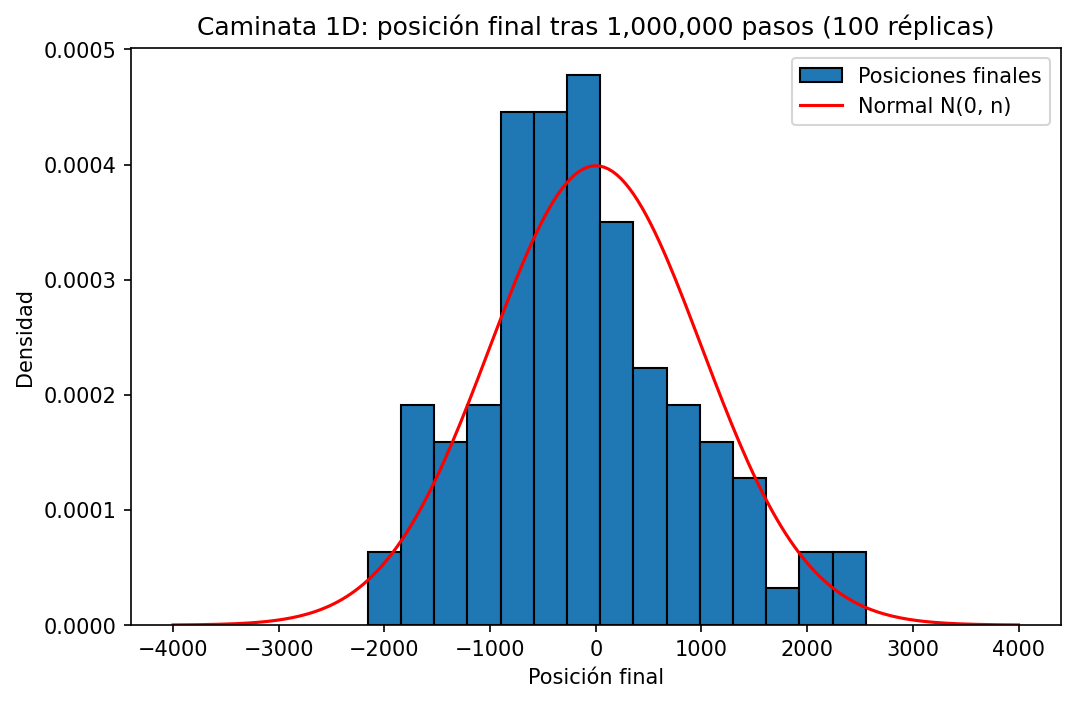
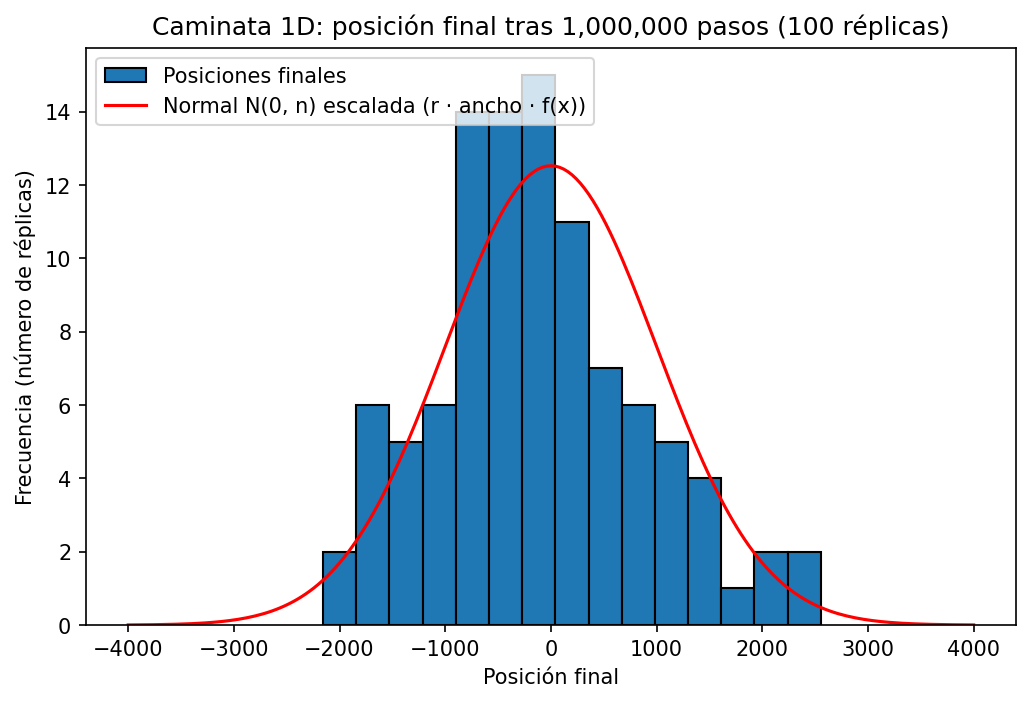
Modificar grafico de histograma 1D usando frecuencias en vez de densidad

diff --git a/punto2_caminata_aleatoria/programa_principal.py b/punto2_caminata_aleatoria/programa_principal.py
@@ -98,27 +98,28 @@ def medir_memoria(dimension):
 
 
 def graficar_histograma_1d(posiciones):
-    # Compara las posiciones finales observadas con la distribución normal teórica.
+    # Compara las frecuencias observadas con la normal teórica escalada a frecuencias.
     # También calcula media, desviación muestral y proporción dentro de una desviación.
     valores = [p[0] for p in posiciones]
     media = sum(valores) / len(valores)
-    # Desviación muestral (n - 1) y proporción dentro de ±1σ, para compararlas con la teoría
     desviacion = math.sqrt(sum((v - media) ** 2 for v in valores) / (len(valores) - 1))
     dentro = sum(1 for v in valores if abs(v) <= math.sqrt(PASOS)) / len(valores)
     print(f"1D -> media = {media:.2f} (teórica 0), desviación = {desviacion:.2f} (teórica {math.sqrt(PASOS):.0f})")
     print(f"1D -> dentro de ±1σ: {dentro:.2%} (teórico 68.27%)")
 
     plt.figure(figsize=(8, 5))
-    plt.hist(valores, bins=15, density=True, edgecolor="black", label="Posiciones finales")
-    # Densidad teórica N(0, n) entre -4σ y 4σ
+    # Histograma de frecuencias (conteo de réplicas por barra)
+    _, bordes, _ = plt.hist(valores, bins=15, edgecolor="black", label="Posiciones finales")
+    ancho = bordes[1] - bordes[0]
+    # Frecuencia esperada por barra = réplicas × ancho de barra × densidad N(0, n)
     sigma = math.sqrt(PASOS)
     xs = [-4 * sigma + i * (8 * sigma) / 200 for i in range(201)]
-    ys = [math.exp(-x * x / (2 * PASOS)) / math.sqrt(2 * math.pi * PASOS) for x in xs]
-    plt.plot(xs, ys, color="red", label="Normal N(0, n)")
+    ys = [REPLICAS * ancho * math.exp(-x * x / (2 * PASOS)) / math.sqrt(2 * math.pi * PASOS) for x in xs]
+    plt.plot(xs, ys, color="red", label="Normal N(0, n) escalada (r · ancho · f(x))")
     plt.title(f"Caminata 1D: posición final tras {PASOS:,} pasos ({REPLICAS} réplicas)")
     plt.xlabel("Posición final")
-    plt.ylabel("Densidad")
-    plt.legend()
+    plt.ylabel("Frecuencia (número de réplicas)")
+    plt.legend(loc="upper left")
     plt.savefig(CARPETA_RESULTADOS / "histograma_1d.png", dpi=150, bbox_inches="tight")
     plt.close()
 
